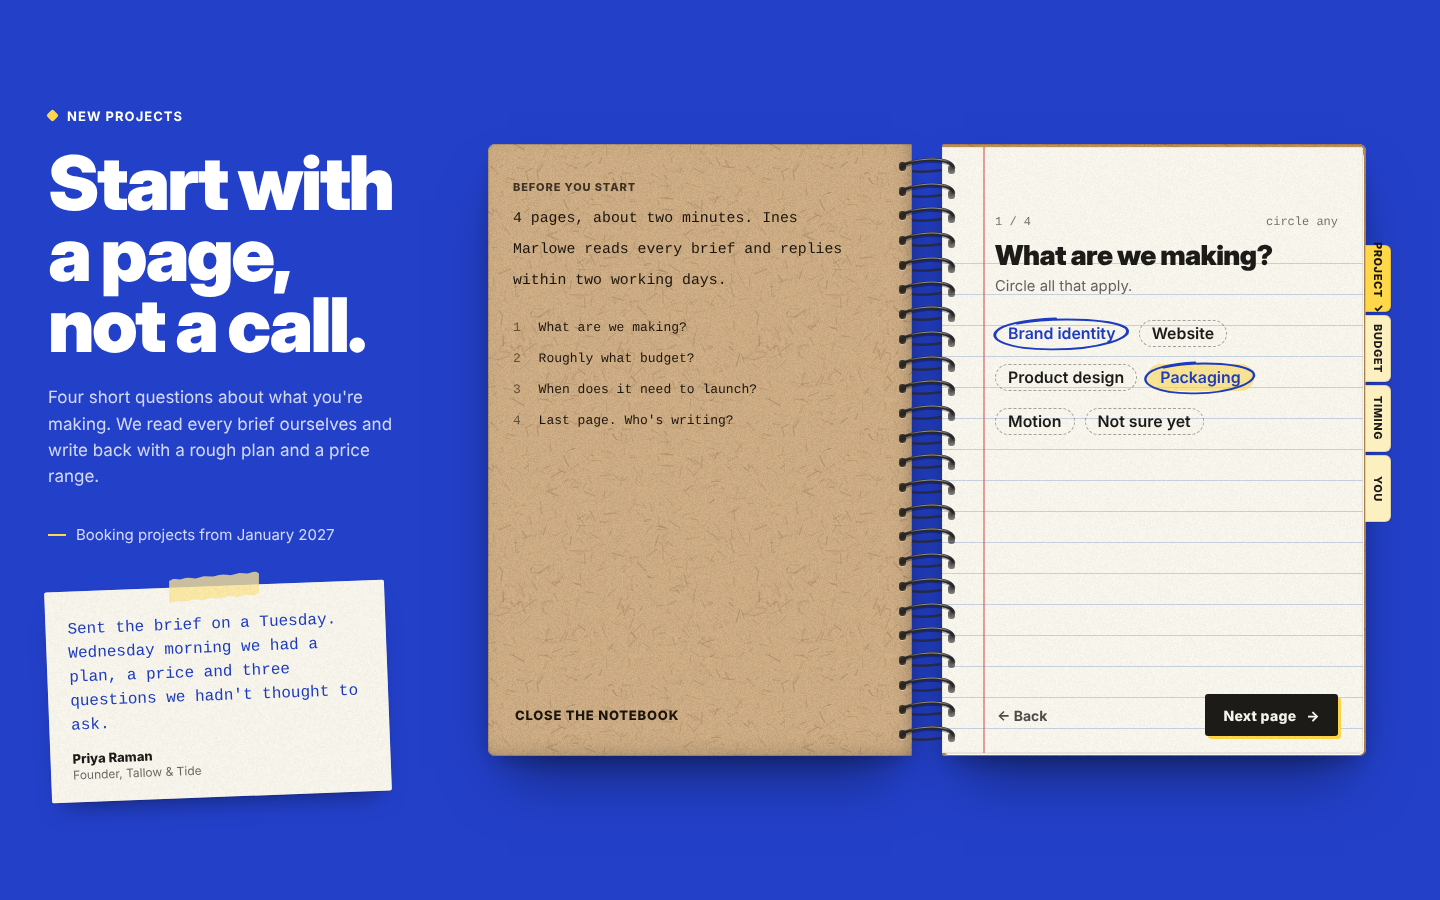
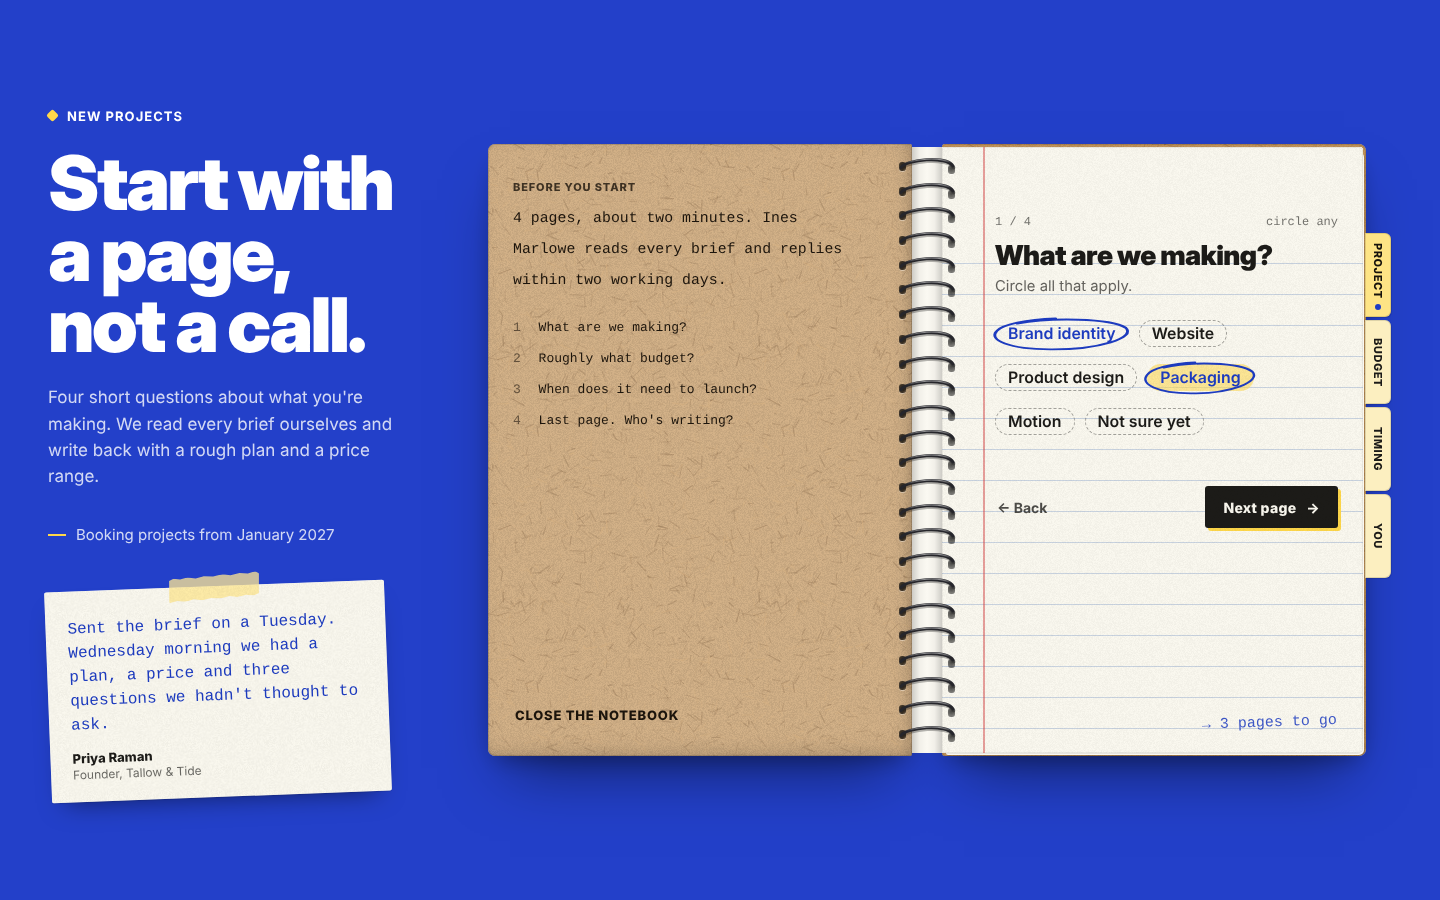
wirebound-inquiry: round 2 fixes: tabs fit labels, binding gutter, one title scale, olive print, pen note, demo and README copy
Claude-Session: https://claude.ai/code/session_017AS8Ge143McaHi8Gmc6ka2

diff --git a/components/wirebound-inquiry/wirebound-inquiry.tsx b/components/wirebound-inquiry/wirebound-inquiry.tsx
@@ -122,6 +122,8 @@ export type WireboundCopy = {
   announcePage: string
   announceClosed: string
   pages: string
+  pagesLeft: string
+  lastQuestion: string
 }
 
 const DEFAULT_COPY: WireboundCopy = {
@@ -154,6 +156,8 @@ const DEFAULT_COPY: WireboundCopy = {
   announcePage: "Page {n} of {total}",
   announceClosed: "Notebook closed.",
   pages: "{total} pages, about two minutes. {reader} reads every brief and replies within {time}.",
+  pagesLeft: "{left} pages to go",
+  lastQuestion: "Then just your details",
 }
 
 const fill = (t: string, v: { [k: string]: string | number }) => t.replace(/\{(\w+)\}/g, (m, k) => (k in v ? String(v[k]) : m))
@@ -169,9 +173,7 @@ export type WireboundInquiryProps = {
   intro?: React.ReactNode
   /** Direct address, shown beside the notebook and on the cover. */
   email?: string
-  emailLabel?: string
   socials?: WireboundLink[]
-  socialsLabel?: string
   /** A short availability line, e.g. "Booking projects from January 2027". null hides it. */
   availability?: React.ReactNode | null
   /** Who reads the briefs. Used on the inside cover. */
@@ -308,12 +310,12 @@ const PRESETS: { [k: string]: { light: WireboundPalette; dark: WireboundPalette 
   olive: {
     light: {
       field: "#b9a8ff", text: "#17122b", muted: "rgba(23, 18, 43, 0.78)",
-      cover: "#6c7838", coverPrint: "#454e1f", coverEmboss: "rgba(240, 250, 200, 0.28)", coverText: "#f5f3e6",
+      cover: "#6c7838", coverPrint: "#f1efd9", coverEmboss: "rgba(28, 34, 8, 0.5)", coverText: "#f5f3e6",
       ...PAPER, highlight: "#fff06a", onHighlight: "#17130b", wire: "#1d1d21",
     },
     dark: {
       field: "#1a1530", text: "#ece6ff", muted: "rgba(236, 230, 255, 0.74)",
-      cover: "#64702f", coverPrint: "#3f481b", coverEmboss: "rgba(240, 250, 200, 0.24)", coverText: "#f5f3e6",
+      cover: "#64702f", coverPrint: "#e9e7d0", coverEmboss: "rgba(28, 34, 8, 0.5)", coverText: "#f5f3e6",
       ...PAPER_DARK, highlight: "#fff06a", onHighlight: "#17130b", wire: "#26262b",
     },
   },
@@ -477,11 +479,14 @@ export function coverLines(title: string | string[], max: number) {
   return best.slice(0, max)
 }
 
-/** Horizontal squeeze and size for one cover line: condensed look, never wider than the cover. */
-export function fitLine(natural: number, avail: number, size: number) {
-  const ideal = 0.74
-  if (natural <= 0) return { scale: ideal, size }
-  const scale = Math.min(ideal, avail / natural)
+/**
+ * One horizontal scale for every cover line, so the letters match from line to line: as wide as
+ * the longest line allows (never wider than the drawn face), shrunk rather than squeezed past 0.46.
+ */
+export function fitTitle(naturals: number[], avail: number, size: number) {
+  const widest = Math.max(0, ...naturals)
+  if (widest <= 0) return { scale: 0.74, size }
+  const scale = Math.min(1, avail / widest)
   if (scale >= 0.46) return { scale, size }
   return { scale: 0.46, size: (size * scale) / 0.46 }
 }
@@ -540,7 +545,6 @@ const CSS = `
 .wbi[data-mode="wide"] .wbi-stage { grid-area: stage; }
 .wbi[data-mode="wide"] .wbi-notes { grid-area: notes; align-self: start; }
 .wbi[data-mode="stacked"] .wbi-inner, .wbi[data-mode="single"] .wbi-inner { grid-template-columns: minmax(0, 1fr); gap: 36px; }
-.wbi[data-mode="wide"] .wbi-direct-links { display: none; }
 
 /* A client note taped beside the notebook */
 .wbi-notes { display: flex; flex-wrap: wrap; justify-content: center; gap: 28px; margin-top: 8px; }
@@ -683,6 +687,15 @@ const CSS = `
   opacity: 0.55;
   pointer-events: none;
 }
+.wbi-gutter {
+  position: absolute;
+  z-index: 2;
+  background:
+    linear-gradient(90deg, rgba(0, 0, 0, 0.26), rgba(0, 0, 0, 0.04) 30%, rgba(0, 0, 0, 0) 50%, rgba(0, 0, 0, 0.04) 70%, rgba(0, 0, 0, 0.26)),
+    var(--paper);
+  transition: opacity 260ms ease;
+  pointer-events: none;
+}
 .wbi-edges {
   position: absolute;
   border-radius: 2px 5px 5px 2px;
@@ -764,7 +777,8 @@ const CSS = `
   padding-bottom: 5px;
   border-bottom: 2px solid var(--highlight);
 }
-.wbi-cover-line .wbi-cl { font-size: calc(11px * var(--u)); font-weight: 800; letter-spacing: 0.08em; text-transform: uppercase; }
+.wbi-cover-line .wbi-cl { font-size: max(10px, calc(11px * var(--u))); font-weight: 800; letter-spacing: 0.08em; text-transform: uppercase; }
+.wbi[data-mode="single"] .wbi-cover-line .wbi-cl { flex-basis: 100%; }
 .wbi-cover-line a {
   font-family: var(--wbi-hand);
   font-weight: 700;
@@ -910,6 +924,21 @@ const CSS = `
   height: calc(var(--rule) * 2);
   padding-bottom: calc(var(--rule) * 0.45);
 }
+.wbi-nav-inline { margin-top: calc(var(--rule) * 0.5); }
+.wbi-penote {
+  margin: auto 0 0;
+  padding-bottom: calc(var(--rule) * 0.55);
+  align-self: flex-end;
+  font-family: var(--wbi-hand);
+  font-size: 15px;
+  line-height: var(--rule);
+  white-space: nowrap;
+  color: var(--pen);
+  opacity: 0.85;
+  transform: rotate(-2deg);
+  transform-origin: right bottom;
+}
+.wbi-penote::before { content: "\\2192\\00a0"; }
 .wbi-backbtn {
   font-size: 14px;
   font-weight: 700;
@@ -1055,7 +1084,21 @@ button.wbi-sumrow:hover { background: color-mix(in srgb, var(--highlight) 40%, t
 .wbi-tab:hover { background: var(--highlight); }
 .wbi-tab:active { filter: brightness(0.94); }
 .wbi-tab[aria-current="step"] { background: var(--highlight); color: var(--onHighlight); }
-.wbi-tab[data-done] span::after { content: " \\2713"; }
+.wbi-tab[data-done] { background: color-mix(in srgb, var(--paper) 35%, var(--highlight) 65%); }
+.wbi-tab[data-done]::after {
+  content: "";
+  position: absolute;
+  left: 50%;
+  bottom: 7px;
+  width: 6px;
+  height: 6px;
+  margin-left: -3px;
+  border-radius: 50%;
+  background: var(--pen);
+}
+.wbi-tab[data-side="l"][data-done]::after { bottom: auto; top: 7px; }
+.wbi-tab[data-done] span { margin-bottom: 8px; }
+.wbi-tab[data-side="l"][data-done] span { margin-bottom: 0; margin-top: 8px; }
 
 .wbi-coil { position: absolute; top: 0; overflow: visible; pointer-events: none; }
 
@@ -1152,9 +1195,7 @@ export default function WireboundInquiry({
   headline = "Start with a page, not a call.",
   intro = "Four short questions about what you're making. We read every brief ourselves and write back with a rough plan and a price range.",
   email = "hello@marlowepike.studio",
-  emailLabel = "Or write to",
   socials = DEFAULT_SOCIALS,
-  socialsLabel = "Elsewhere",
   availability = "Booking projects from January 2027",
   reader = "Ines Marlowe",
   replyTime = "two working days",
@@ -1226,7 +1267,7 @@ export default function WireboundInquiry({
   const [sendError, setSendError] = React.useState("")
   const [reference, setReference] = React.useState("")
   const [announce, setAnnounce] = React.useState("")
-  const [fit, setFit] = React.useState([] as { scale: number; size: number }[])
+  const [fit, setFit] = React.useState(null as { scale: number; size: number } | null)
 
   const C = { ...DEFAULT_COPY, ...(copy || {}) }
   const withIntro = layout !== "notebook"
@@ -1282,19 +1323,18 @@ export default function WireboundInquiry({
   const baseSize = lineBox * 1.16
   useIsoLayoutEffect(() => {
     const measure = () => {
-      const next = lines.map((_, i) => {
+      const naturals = lines.map((_, i) => {
         const el = titleRefs.current[i]
-        let natural = 0
         try {
           // Measured at whatever size is on screen now; normalise to the base size.
           const at = el ? parseFloat(el.getAttribute("font-size") || "") || baseSize : baseSize
-          natural = el ? (el.getComputedTextLength() * baseSize) / at : 0
+          return el ? (el.getComputedTextLength() * baseSize) / at : 0
         } catch {
-          natural = 0
+          return 0
         }
-        return fitLine(natural, titleW, baseSize)
       })
-      setFit((prev) => (JSON.stringify(prev) === JSON.stringify(next) ? prev : next))
+      const next = fitTitle(naturals, titleW, baseSize)
+      setFit((prev) => (prev && prev.scale === next.scale && prev.size === next.size ? prev : next))
     }
     measure()
     const fonts = (document as Document & { fonts?: { ready: Promise<unknown> } }).fonts
@@ -1504,8 +1544,10 @@ export default function WireboundInquiry({
   const pageBox = (side: "f" | "b") =>
     ({ left: side === "f" ? padL : padR, right: side === "f" ? padR : padL }) as React.CSSProperties
 
-  const tabH = Math.min(70, Math.round((pageH * 0.64) / S))
-  const tabTop = (j: number) => Math.round(pageH * 0.16 + j * tabH)
+  // Tabs fit their longest label (11px caps, about 7.6px a letter, plus room for the done dot).
+  const longest = Math.max(...questions.map((q) => q.tab.length), detailsTab.length)
+  const tabH = Math.min(Math.round((pageH * 0.84) / S), Math.max(Math.round(longest * 7.6 + 34), Math.min(84, Math.round((pageH * 0.66) / S))))
+  const tabTop = (j: number) => Math.round(Math.min(pageH * 0.14, pageH - S * tabH - 12) + j * tabH)
   const doneStep = (j: number) => (j < nQ ? (answers[questions[j].id] || []).length > 0 || (!!questions[j].optional && turned > j + 1) : status === "sent")
 
   const tabs = (sheetIndex: number) => {
@@ -1583,7 +1625,7 @@ export default function WireboundInquiry({
         style={{ left: coverPad + 14, top: Math.round(coverPad * 1.1) }}
       >
         {lines.map((line, i) => {
-          const f = fit[i] || { scale: 0.74, size: baseSize }
+          const f = fit || { scale: 0.74, size: baseSize }
           const y = (i + 1) * lineBox - lineBox * 0.06
           const tr = "translate(" + titleW + " " + y.toFixed(1) + ") scale(" + f.scale.toFixed(3) + " 1)"
           return (
@@ -1740,7 +1782,7 @@ fill(C.pages, { total: S, reader, time: replyTime, studio })
               </>
             ) : null}
           </p>
-          <div className="wbi-nav">
+          <div className="wbi-nav wbi-nav-inline">
             <button type="button" className="wbi-backbtn" onClick={() => goTo(sheetIndex - 1)}>
               &larr; {backLabel}
             </button>
@@ -1751,6 +1793,9 @@ fill(C.pages, { total: S, reader, time: replyTime, studio })
               </span>
             </button>
           </div>
+          <p className="wbi-penote" aria-hidden>
+            {S - sheetIndex === 1 ? C.lastQuestion : fill(C.pagesLeft, { left: S - sheetIndex })}
+          </p>
         </form>
         <span className="wbi-shade" />
       </div>
@@ -2007,28 +2052,6 @@ fill(C.pages, { total: S, reader, time: replyTime, studio })
             <h2 className="wbi-headline">{headline}</h2>
             {intro ? <p className="wbi-intro-copy">{intro}</p> : null}
             <div className="wbi-direct">
-              {email ? (
-                <div className="wbi-direct-links">
-                  <span className="wbi-label">{emailLabel}</span>
-                  <a className="wbi-mark wbi-email" href={"mailto:" + email}>
-                    {email}
-                  </a>
-                </div>
-              ) : null}
-              {socials.length ? (
-                <div className="wbi-direct-links">
-                  <span className="wbi-label">{socialsLabel}</span>
-                  <ul className="wbi-socials">
-                    {socials.map((s) => (
-                      <li key={s.label}>
-                        <a className="wbi-mark" href={s.href} target="_blank" rel="noreferrer">
-                          {s.label}
-                        </a>
-                      </li>
-                    ))}
-                  </ul>
-                </div>
-              ) : null}
               {availability ? (
                 <p className="wbi-avail" style={{ margin: 0 }}>
                   {availability}
@@ -2051,6 +2074,12 @@ fill(C.pages, { total: S, reader, time: replyTime, studio })
               />
             ) : null}
             <span className="wbi-board" style={{ left: rightLeft, top: 0, width: pageW, height: pageH }} />
+            {spread ? (
+              <span
+                className="wbi-gutter"
+                style={{ left: tab + pageW - 4, top: 3, width: gap + 8, height: pageH - 6, opacity: isOpen ? 1 : 0 }}
+              />
+            ) : null}
             <span
               className="wbi-edges"
               style={{ left: rightLeft, top: 4, width: pageW - 6, height: pageH - 9, opacity: turned < RECEIPT ? 1 : 0 }}

diff --git a/components/wirebound-inquiry/demo-ink.tsx b/components/wirebound-inquiry/demo-ink.tsx
@@ -15,6 +15,13 @@ export default function WireboundInquiryInkDemo() {
         { label: "Instagram", href: "https://instagram.com" },
       ]}
       availability="Two mix stages free from March"
+      notes={[
+        {
+          quote: "We sent a rough cut and three reference tracks. The plan that came back already knew which scenes needed silence.",
+          name: "Mateo Ilunga",
+          role: "Director, Low Tide (2026)",
+        },
+      ]}
       reader="Ruth Okafor"
       replyTime="one working day"
       questions={[

diff --git a/components/wirebound-inquiry/README.md b/components/wirebound-inquiry/README.md
@@ -10,6 +10,8 @@ the brief so far, so on a wide screen the left page always shows what the visito
   required ones show an inline error and block the next page. The last page takes a name, an
   email and an optional note (`requireMessage` makes it required). `onSubmit` is async with
   pending and error states; resolve with a string to print a reference on the receipt.
+- **Index tabs** stick out of every page with a question and fit their label; answered pages get a
+  pen dot. They flip to the left edge with their page.
 - **Easy to move around.** Index tabs on the page edge jump to any page you can reach, lines on
   the summary page jump back to that question, Enter goes to the next page, focus moves to each
   new page and an `aria-live` region announces it. Pages that are not on top are `inert`.
@@ -61,8 +63,10 @@ import WireboundInquiry from "@/components/ui/wirebound-inquiry"
 | `studio` | `"Marlowe & Pike"` | Used in the copy and, uppercased, on the cover. |
 | `coverTitle` | the studio | A string (`"\n"` fixes the breaks) or an array of up to 3 lines. |
 | `kicker`, `headline`, `intro` | sample copy | The column beside the notebook. `kicker={null}` hides it. |
-| `email`, `emailLabel` | sample | Shown beside the notebook and on the cover. |
-| `socials`, `socialsLabel` | Instagram, LinkedIn, Are.na | `{ label, href }[]`. On the cover always; beside it on wide screens. |
+| `email` | sample | Written on the cover, and in the "Rather talk?" line on the summary pages. |
+| `socials` | Instagram, LinkedIn, Are.na | `{ label, href }[]`, written on the cover. |
+| `notes` | one client note | `{ quote, name, role? }[]` (up to two), taped beside the notebook. `[]` hides them. |
+| `layout` | `"section"` | `"notebook"` drops the copy column and notes, for a contact page that already has its own. |
 | `availability` | `"Booking projects from January 2027"` | `null` hides it. |
 | `reader`, `replyTime` | `"Ines Marlowe"`, `"two working days"` | Inside cover and receipt copy. |
 | `questions` | Project, Budget, Timing | `{ id, tab, title, hint?, options, multiple?, optional? }[]`. One page each. |
@@ -78,7 +82,9 @@ import WireboundInquiry from "@/components/ui/wirebound-inquiry"
 | `theme` | `"auto"` | `"auto"` follows `.dark` on an ancestor; or force `"light"` / `"dark"`. |
 | `height` | `"100svh"` | Section minimum height. Any definite CSS length. |
 | `defaultOpen` | `false` | Start on the first question. |
+| `copy` | English | Every small string: cover labels, page meta, summary headings, errors, live-region text. `{n}`, `{total}`, `{left}`, `{name}`, `{reader}`, `{studio}` and `{time}` are filled in where they apply. See `WireboundCopy` in the source for the keys. |
 | `displayFont`, `textFont`, `monoFont` | system stacks | Pass `var(--font-…)` to use your site's fonts. A heavy display face suits the cover. |
+| `handFont` | Segoe Print, Bradley Hand, Noteworthy, Ink Free, Marker Felt, then the mono stack | Pen-written text: answers, cover entries, notes. Pass a handwriting face your site already loads. |
 | `id`, `className`, `style`, `ariaLabel` | | Passed to the `<section>`. |
 
 ## Notes

diff --git a/media/wirebound-inquiry/review.md b/media/wirebound-inquiry/review.md
@@ -61,3 +61,24 @@ Changes asked, most important first, and what was done:
    is narrower, so the closed book is about 470 × 640 at 1440 × 900.
 9. Index tabs: 11px labels and a 40px hit area.
 10. Hover peek was invisible: the cover now lifts to -26deg with a shade, showing the first page's edge.
+
+## Round 2 (fresh critic, 2026-10-15): REDO
+
+Scores: usability 8, idea 8, craft 7, originality 8, install-safety 8 (average 7.8). Banned looks: passed.
+
+Changes asked and what was done:
+1. "Done" tick overflowed the index tabs and turned into a chevron on the left: tabs are now sized
+   from their longest label, and an answered page gets a darker fill plus a pen dot (a shape, so it
+   survives the flip).
+2. Field colour showed through the binding gap in the spread: a gutter strip of paper with
+   shading into the binding now fills it while the notebook is open.
+3. The Oddfellow demo reused the design studio's testimonial: it has its own note now.
+4. README: `notes`, `layout`, `copy` (with its fills) and `handFont` added; socials row corrected.
+5. Muddy olive cover: cream print with a dark emboss; the cover title now uses one scale for all
+   lines, as wide as the longest line allows, so short names (FERN / HALL) fill the cover and long
+   ones condense evenly.
+6. Contact repeated on the phone: the copy column no longer repeats the email and socials (the
+   cover carries them); on a phone the cover labels sit above their entries so the socials stay on
+   one line.
+7. Empty space on question pages: Back / Next now follow the options, and a pen note at the foot
+   says how many pages are left ("3 pages to go", "Then just your details").
